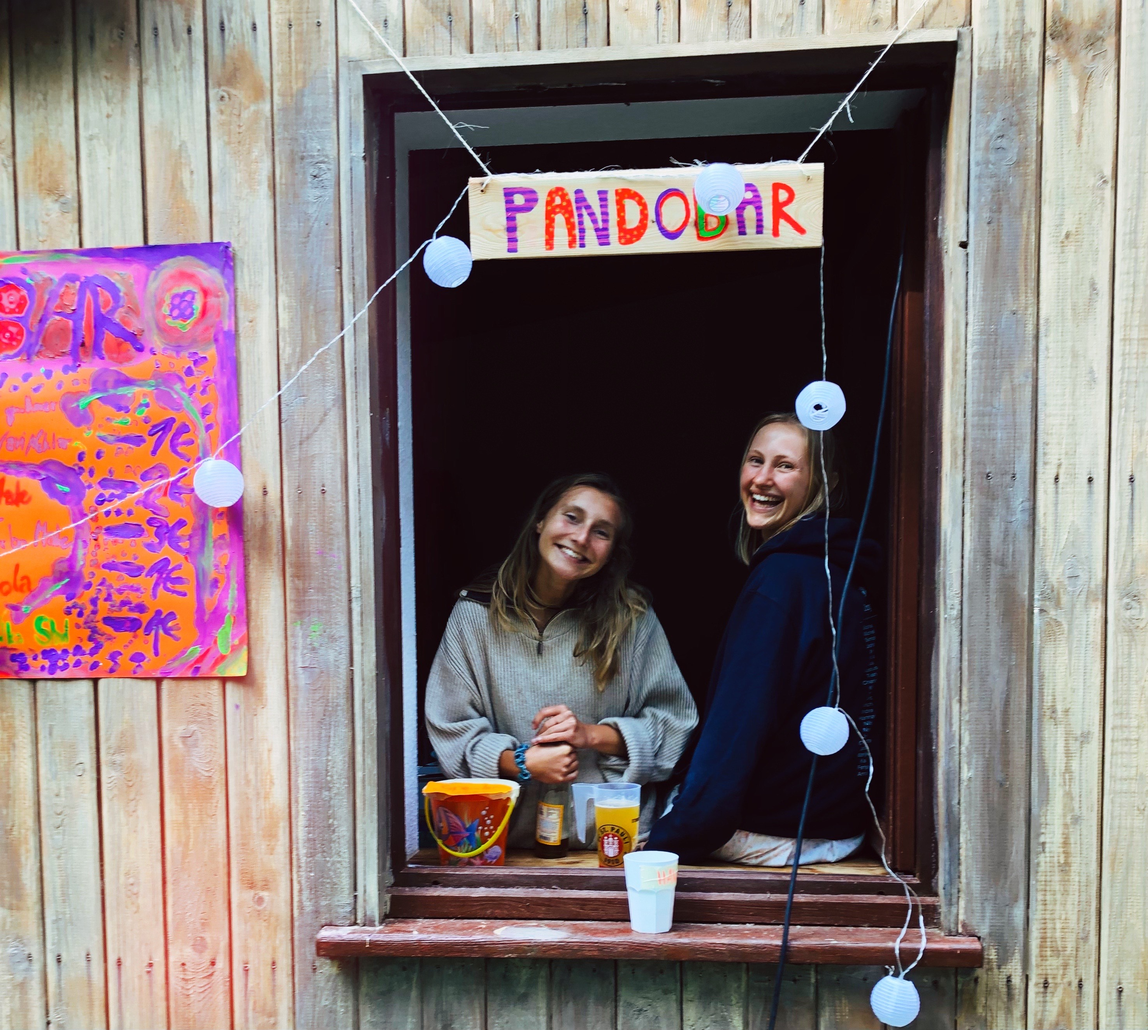
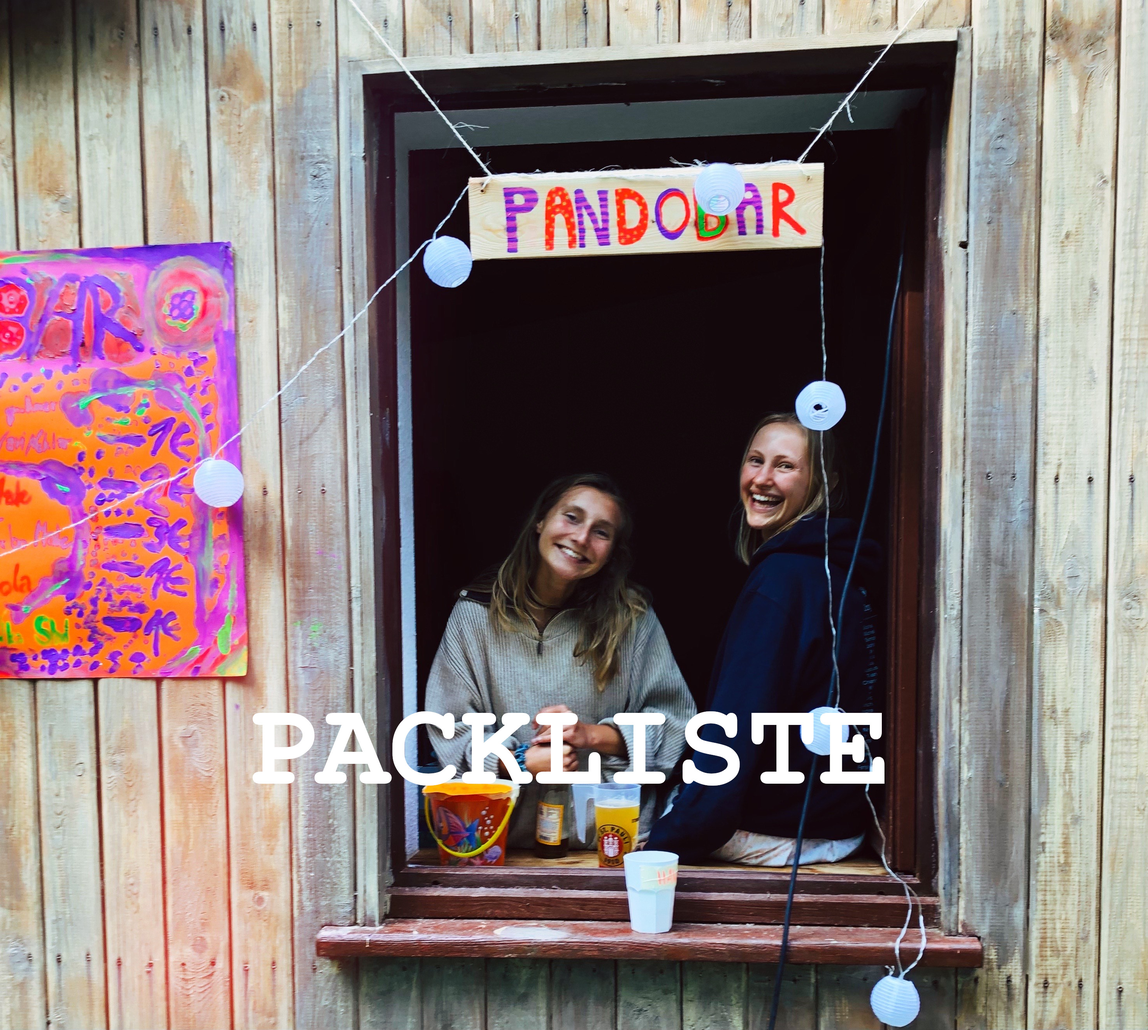
title aufs bild

Changed region(s): [[0.2183, 0.6815, 0.7797, 0.7745]]

diff --git a/my-app/src/pages/faq.tsx b/my-app/src/pages/faq.tsx
@@ -3,13 +3,11 @@ import anfahrt from './../images/party.jpeg'
 export default function FAQ() {
     return (
       <div className='container App'>
-        <div className='card my-3' style={{borderColor: 'white'}}>FAQ</div>
-        <div className="card">
+        <div className="card mt-5">
           <img className="img-fluid" src={anfahrt} alt='Logo'/>
-          <div className="card-body">
-            <h5 className="card-title">Hallo ihr Lieben</h5>
+          <div className="card-body mb-5">
             <p className="card-text">
-            Wer organisiert Pandora?<br/><br/>
+            <h5>Wer organisiert Pandora?</h5>
             Hey, unser Kernorgateam besteht aus Hanna, Kamran, Hannes, Tabea R., Moritz, Dennis,
             Tabea M., Elena, Simon, Lorenz, Tanja, Pauline, Raul und Rosa. Im Grunde waren wir
             ursprünglich eine Karlsruher Clique, bevor es uns in die weite Welt verstreute und wir freuen
@@ -23,7 +21,7 @@ export default function FAQ() {
             wieder zugänglich machten. Um die dort sehr lebendige Wildnis zu schützen, bitten wir euch
             daher um ein paar Selbstverständlichkeiten: keinen Müll zu hinterlassen und besonders im
             Umgang mit Feuer Acht zu geben.<br/><br/>
-            Pandora?
+            <h5>Pandora?</h5>
             Aus dem altgriechischen übersetzt und frei interpretiert: „pan“ bedeutet ,all‘ oder ‚gesamt‘
             und „doron“ ‚Gabe‘ oder ‚Geschenk‘. Im übertragenen Sinne kann mensch es also als „alles
             ist ein Geschenk“ verstehen. Und das Leben ist ein Geschenk – unser eigenes, das unserer
@@ -49,7 +47,7 @@ export default function FAQ() {
             unser Plan einen möglichen Überschuss zusätzlich zu den 5€ p. Person, die im Kunstbeitrag
             enthalten, sind, an Hans, als Dank für die einschränkungsfreie Nutzung des Grundstücks, zu
             übergeben.<br/><br/>
-            Wie kann ich euch unterstützen?
+            <h5>Wie kann ich euch unterstützen?</h5>
             Gute Vibes &amp; nur Liebe! &lt;3 sind auf jeden Fall das Wichtigste. Wir hoffen alle, dass wir das
             Festival reibungslos über die Bühne bringen und gemeinsam eine wahnsinnig schöne Zeit
             erleben werden, die uns in Erinnerung bleibt und uns in so manchen Momenten der Zukunft
@@ -62,19 +60,19 @@ export default function FAQ() {
             Nachtwache, Frühstückscafé, Dürüm-Bäcker, Pando-Barkeeper und Feuerwachen. Und
             konzeptionell ist es auch praktisch vorgesehen, dass wir am Ende des Tages ALLE zum
             Erfolg des Festivals beigetragen haben!<br/><br/>
-            Auf einer Skala von 0 bis 10, wie cool wird Pandora_v2-2?<br/><br/>
+            <h5>Auf einer Skala von 0 bis 10, wie cool wird Pandora_v2-2?</h5>
             11 sagt unser Bauchgefühl.
             Nein, praktisch nicht messbar, für schöne Erlebnisse gibt es keinen Messwert, aber wenn es
             genauso schön werden würde, wie Pandora_1, dann wären wir schon sehr gut dabei &lt;3<br/><br/>
-            Schietwedda?
+            <h5>Schietwedda?</h5>
             Dann müssen wir wohl einen Regentanz aufführen, wir sind doch nicht aus Zucker!<br/><br/>
-            Gibt es Nachbarn?
+            <h5> Gibt es Nachbarn?</h5>
             Ja, also bitte schön nett und freundlich sein, wir sind Gäste! Aber da machen wir uns in
             unserer Konstellation von Leuten keine Sorgen. Die Nachbarn sind informiert und hatten nur
             Einwände bezüglich der Lautstärke, das regeln wir vor Ort und im Konsens mit den
             Anwohnern. Im Notfall müssten wir natürlich die Musik etwas drosseln. Das bringt uns zum
             nächsten Punkt:<br/><br/>
-            Ordnungsamt, Gesundheitsamt &amp; Polizei
+            <h5>Ordnungsamt, Gesundheitsamt und Polizei</h5>
             Wir haben mit den Ämtern gesprochen und ihr Einverständnis für unser Vorhaben. Die
             Polizei wird informiert sein, muss aber persönlich vorbeikommen, sollte sich jemensch
             beschweren. Da wir aus unserer Sicht grünes Licht haben, gilt es freundlich zu sein, denn

diff --git a/my-app/src/pages/lastyear.tsx b/my-app/src/pages/lastyear.tsx
@@ -9,19 +9,19 @@ export default function Bildergalerie() {
           <div className="card my-3">
             <div className="card-body">
               <h5 className="card-title">Location</h5>
-              <Carousel cols={2} rows={1} gap={10} loop>
-                <Carousel.Item>
-                    <img className="img-fluid" width="100%" src={drache} alt=''/>
-                </Carousel.Item>
+              <Carousel cols={1} rows={1} gap={10} loop>
                 <Carousel.Item>
                     <img className="img-fluid" width="100%" src={zeltplatz} alt='' />
+                </Carousel.Item>
+                <Carousel.Item>
+                    <img className="img-fluid" width="100%" src={drache} alt=''/>
                 </Carousel.Item>
             </Carousel>
             </div>
         </div>
         <div className="card my-3">
             <div className="card-body">
-              <h5 className="card-title">Peeps</h5>
+              <h5 className="card-title">Vibe</h5>
               <Carousel cols={2} rows={1} gap={10} loop>
               <Carousel.Item>
                 <img className="img-fluid" width="100%" src={peeps} alt='' />

diff --git a/my-app/src/pages/packliste.tsx b/my-app/src/pages/packliste.tsx
@@ -3,10 +3,9 @@ import packliste from './../images/bar.jpeg'
 export default function Packliste() {
     return (
       <div className='container App'>
-        <div className='card my-3 mx-3' style={{borderColor: 'white'}}>Packliste</div>
-        <div className="card">
+        <div className="card mt-5">
           <img className="img-fluid" src={packliste} alt='Logo'/>
-          <div className="card-body"> 
+          <div className="card-body mb-5"> 
             <h5 className="card-title mb-3">Damits euch gut geht</h5>
             <p className="card-text">
             1. Zelt, Schlafsack, Isomatte<br/>
@@ -41,7 +40,7 @@ export default function Packliste() {
             Gepäck passt und alles was ihr braucht bekommt ihr in Laboe 3,5 km weiter im
             Supermarkt.<br/><br/>
             Empfehlung des Hauses: Sonnenuntergangspizza an der Mündung der Kieler Förde
-            in Laboe. Hoffentlich ist lieferbar (y)
+            in Laboe.
             Bald geht es los meine Freunde!!!! ❤❤❤
             </p>
       </div>

diff --git a/my-app/src/pages/anfahrt.tsx b/my-app/src/pages/anfahrt.tsx
@@ -3,10 +3,9 @@ import anfahrt from './../images/anfahrt.png'
 export default function Anfahrt() {
     return (
       <div className='container App'>
-        <div className='card my-3' style={{borderColor: 'white'}}>Anfahrt</div>
-        <div className="card">
+        <div className="card mt-5">
           <img className="img-fluid" src={anfahrt} alt='Logo'/>
-          <div className="card-body">
+          <div className="card-body mb-5">
             <h5 className="card-title">Lets go</h5>
             <p className="card-text">
             Liebe Leute, wegen der Anfahrt: die Zielhaltestelle selbst heißt Brodersdorf und wird von der Buslinie 14 von Kiel aus bedient. Von dort aus lauft ihr noch ca. 15-20 Min. bis zum Gelände. Falls ihr schon gebucht habt, wären Laboe/ Röbsdorf, Probsteierhagen etc. auch nicht ganz falsch. 

diff --git a/my-app/src/App.tsx b/my-app/src/App.tsx
@@ -7,10 +7,7 @@ import { url } from 'inspector';
 
 function App() {
   return (
-    <div className="App container d-flex flex-column h-100">
-        <div className="card my-3 noBorder">
-        <h2>🅿🅰🅽🅳🅾🆁🅰 ❷⓿❷❷</h2>
-      </div>
+    <div className="App container d-flex flex-column h-100 mt-5">
       <div className="card" style={{backgroundColor: 'white'}}>
         <img  className="img-fluid" alt="" src={drache}/>
         <div className="card-body">
